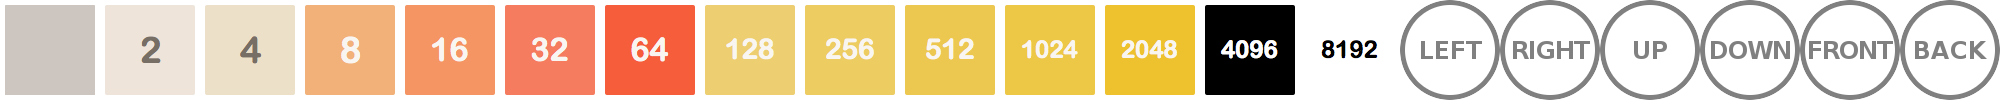
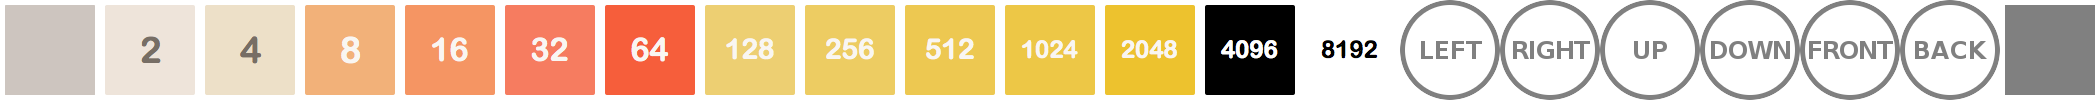
2048: adding levels and blocking cubes

diff --git a/assets/app/2048_3d/main.js b/assets/app/2048_3d/main.js
@@ -3,31 +3,40 @@
 /* global variables */
 var canvas, gl, program, browser, tex_2048;
 var shaders = ["shader.vert", "shader.frag"];
-var stopRender = false, E_down = false;
+var stopRender = false, D_down = false, E_down = false;
 
 var SHAPES = {
     // shape name: {id, details}
-    "0":     { id: 5 },
-    "2":     { id: 5 },
-    "4":     { id: 5 },
-    "8":     { id: 5 },
-    "16":    { id: 5 },
-    "32":    { id: 5 },
-    "64":    { id: 5 },
-    "128":   { id: 5 },
-    "256":   { id: 5 },
-    "512":   { id: 5 },
-    "1024":  { id: 5 },
-    "2048":  { id: 5 },
-    "4096":  { id: 5 },
-    "8192":  { id: 5 },
-    "Guide": { id: 5 }
+    "0":        { id: 5 },
+    "2":        { id: 5 },
+    "4":        { id: 5 },
+    "8":        { id: 5 },
+    "16":       { id: 5 },
+    "32":       { id: 5 },
+    "64":       { id: 5 },
+    "128":      { id: 5 },
+    "256":      { id: 5 },
+    "512":      { id: 5 },
+    "1024":     { id: 5 },
+    "2048":     { id: 5 },
+    "4096":     { id: 5 },
+    "8192":     { id: 5 },
+    "1048576":  { id: 5 },
+    "Guide":    { id: 5 }
 };
 
-var GUIDE, GAME, BOARD = [], highScore;
+var LEVELS = [
+    { name: "Youngling", best: 0 },
+    { name: "Padawan",   best: 0 },
+    { name: "Knight",    best: 0 },
+    { name: "Master",    best: 0 },
+    { name: "Yoda",      best: 0 },
+];
+
+var GUIDE, GAME, BOARD = [], currentLevel = 1;
 
 /* UI elements */
-var info_panel, big_info, small_info, score_info, best_info;
+var info_panel, big_info, small_info, score_info, move_info, best_info;
 
 /* mouse controls */
 var lastPosition = [];
@@ -92,12 +101,12 @@ function initWebGL(shaderSources) {
             tCoord = getTiledTexCoords(Math.log(parseInt(key)) / Math.log(2));
         } else {
             tCoord = [
-                        [18 / 20, 0], [19 / 20, 0], [19 / 20, 1], [18 / 20, 0], [19 / 20, 1], [18 / 20, 1], // front
-                        [20 / 20, 0], [19 / 20, 0], [19 / 20, 1], [20 / 20, 0], [19 / 20, 1], [20 / 20, 1], // back
-                        [15 / 20, 0], [14 / 20, 0], [14 / 20, 1], [15 / 20, 0], [14 / 20, 1], [15 / 20, 1], // left
-                        [15 / 20, 0], [16 / 20, 0], [16 / 20, 1], [15 / 20, 0], [16 / 20, 1], [15 / 20, 1], // right
-                        [17 / 20, 0], [17 / 20, 1], [16 / 20, 1], [17 / 20, 0], [16 / 20, 1], [16 / 20, 0], // top
-                        [18 / 20, 1], [18 / 20, 0], [17 / 20, 0], [18 / 20, 1], [17 / 20, 0], [17 / 20, 1], // bottom
+                        [18 / 21, 0], [19 / 21, 0], [19 / 21, 1], [18 / 21, 0], [19 / 21, 1], [18 / 21, 1], // front
+                        [20 / 21, 0], [20 / 21, 1], [19 / 21, 1], [20 / 21, 0], [19 / 21, 1], [19 / 21, 0], // back
+                        [14 / 21, 0], [15 / 21, 0], [15 / 21, 1], [14 / 21, 0], [15 / 21, 1], [14 / 21, 1], // left
+                        [16 / 21, 0], [16 / 21, 1], [15 / 21, 1], [16 / 21, 0], [15 / 21, 1], [15 / 21, 0], // right
+                        [16 / 21, 1], [16 / 21, 0], [17 / 21, 0], [16 / 21, 1], [17 / 21, 0], [17 / 21, 1], // top
+                        [17 / 21, 0], [18 / 21, 0], [18 / 21, 1], [17 / 21, 0], [18 / 21, 1], [17 / 21, 1], // bottom
                      ];
         }
         //console.log(tCoord);
@@ -166,9 +175,11 @@ function render() {
             loadObjectUniforms(object);
             object.draw(gl, false);
         });
-        loadVertexAttribs(GUIDE._gl);
-        loadObjectUniforms(GUIDE);
-        GUIDE.draw(gl, false);
+        if (D_down) {
+            loadVertexAttribs(GUIDE._gl);
+            loadObjectUniforms(GUIDE);
+            GUIDE.draw(gl, false);
+        }
     }
     window.requestAnimFrame(render);
 }
@@ -262,6 +273,9 @@ function handleKeyDown(event){
         case 71: // G key for inwards screen
             GAME.move("IN");
             break;
+        case 68: // E key to explode board
+            D_down = true;
+            break;
         case 69: // E key to explode board
             if (!E_down) {
                 explodeBoard();
@@ -302,10 +316,13 @@ function handleKeyDown(event){
 /* capture key press */
 function handleKeyUp(event){
     switch (event.keyCode) {
+        case 68: // D key to show direction
+            D_down = false;
+        break;
         case 69: // E key to explode board
             E_down = false;
             GAME.updateGUI();
-            break;
+        break;
     }
 }
 
@@ -321,15 +338,15 @@ function changeCameraAngle(dx, dy) {
 function getTiledTexCoords(id) {
     id = id < 0 ? 0 : id;
     var ret = [];
-    var a = id / 20.0,
-        b = (id + 1) / 20.0;
+    var a = id / 21.0,
+        b = (id + 1) / 21.0;
     
     ret.push([a, 0], [b, 0], [b, 1], [a, 0], [b, 1], [a, 1]); // front
-    ret.push([b, 0], [a, 0], [a, 1], [b, 0], [a, 1], [b, 1]); // back
-    ret.push([b, 0], [a, 0], [a, 1], [b, 0], [a, 1], [b, 1]); // left
-    ret.push([a, 0], [b, 0], [b, 1], [a, 0], [b, 1], [a, 1]); // right
-    ret.push([b, 0], [b, 1], [a, 1], [b, 0], [a, 1], [a, 0]); // top
-    ret.push([b, 1], [b, 0], [a, 0], [b, 1], [a, 0], [a, 1]); // bottom
+    ret.push([b, 0], [b, 1], [a, 1], [b, 0], [a, 1], [a, 0]); // back
+    ret.push([a, 0], [b, 0], [b, 1], [a, 0], [b, 1], [a, 1]); // left
+    ret.push([b, 0], [b, 1], [a, 1], [b, 0], [a, 1], [a, 0]); // right
+    ret.push([a, 1], [a, 0], [b, 0], [a, 1], [b, 0], [b, 1]); // top
+    ret.push([a, 0], [b, 0], [b, 1], [a, 0], [b, 1], [a, 1]); // bottom
     
     return ret;
 }
@@ -348,7 +365,7 @@ function showInfoPanel(msg, small_msg, t) {
     info_panel.style.display = "";
     big_info.innerHTML = msg;
     small_info.innerHTML = small_msg;
-    if (t) {
+    if (t > 0) {
         fadeInfoPanel(t);
     }
 }
@@ -359,13 +376,27 @@ function fadeInfoPanel(t) {
     }, t);
 }
 
+/* set level and start a new game */
+function setLevel(value) {
+    currentLevel = parseInt(value);
+    GAME.reset();
+}
+
+/* populate level selector */
+$(function(){
+    var $select = $("#levelSelector");
+    for (var i = 1; i <= 5; i++){
+        $select.append($('<option></option>').val(i).html(LEVELS[i - 1].name));
+    }
+});
+
 /*****************************************************
  * Game logic
  * **************************************************/
 
 var tile_values = [2, 2, 2, 2, 2, 2, 2, 2, 2, 4];
 //var tile_values = [512, 512, 512, 512, 512, 512, 512];
-var flag_2048 = false, flag_4096 = false, flag_8192 = false;
+var flag_2048 = false, flag_4096 = false;
 // Offsets for computing tile indices in each direction.
 // DO NOT MODIFY this dictionary.
 var OFFSETS = {
@@ -399,27 +430,30 @@ function merge(line) {
         } else if (tmp[i] == tmp[i + 1]) {
             ret[idx] = 2 * tmp[i];
             i += 2;
-            GAME.score += ret[idx];
+            if (ret[idx] <= 8192) {
+                GAME.score += ret[idx];
+            }
             if (ret[idx] == 1024) {
-                showInfoPanel("Cool", "", 500);
+                showInfoPanel("Cool", "You've got 1024", 500);
             } else if (ret[idx] == 2048) {
                 if (!flag_2048) {
                     showInfoPanel("You Win", "Continue playing or start a new game by pressing 'N'.", 1000);
                     flag_2048 = true;
                 } else {
-                    showInfoPanel("Awesome", "", 500);
+                    showInfoPanel("Awesome", "Another 2048", 500);
                 }
             } else if (ret[idx] == 4096) {
                 if (!flag_4096) {
                     showInfoPanel("(⊙_◎)", "Continue playing or start a new game by pressing 'N'.", 1000);
                     flag_4096 = true;
                 } else {
-                    showInfoPanel("Excellent", "", 500);
+                    showInfoPanel("Excellent", "Another 4096", 500);
                 }
             } else if (ret[idx] == 8192) {
                 showInfoPanel("(╯°□°）╯︵ ┻━┻ ", "Game Over because you're genius!<br/>Press 'N' to start a new game.", 0);
-                flag_8192 = true;
-                this.over = true;
+                GAME.over = true;
+            } else if (ret[idx] > 1048576) {
+                ret[idx] = 1048576;
             }
         } else {
             ret[idx] = tmp[i];
@@ -479,13 +513,14 @@ function TwentyFortyEight() {
             for (var i = 0; i < 4; i++) {
                 for (var j = 0; j < 4; j++) {
                     var val = this.grid[k][i][j];
+                    //console.log(val.toString());
                     BOARD.push(new Geometry(SHAPES[val.toString()], { scale: [0.2, 0.2, 0.2], translate: [-0.6 + i * 0.4, -0.6 + j * 0.4, -0.6 + k * 0.4] }));
                 }
             }
         }
-        highScore = highScore > this.score ? highScore : this.score;
+        LEVELS[currentLevel - 1].best = LEVELS[currentLevel - 1].best > this.score ? LEVELS[currentLevel - 1].best : this.score;
         score_info.innerHTML = this.score;
-        best_info.innerHTML  = highScore;
+        best_info.innerHTML  = LEVELS[currentLevel - 1].best;
     };
 
     this.new_tile = function() {
@@ -499,6 +534,7 @@ function TwentyFortyEight() {
             z = Math.floor(Math.random() * 4);
         }
         this.grid[z][x][y] = tile_values[Math.floor(Math.random() * tile_values.length)];
+
         // check for feasible moves
         var feasible = false;
         for (var i = 0; i < 4; i++) {
@@ -525,8 +561,6 @@ function TwentyFortyEight() {
             this.lost = true;
             this.over = true;
         }
-        
-        this.updateGUI();
     };
 
     this.reset = function() {
@@ -557,11 +591,14 @@ function TwentyFortyEight() {
                         [0, 0, 0, 0]
                     ]
                     ];
-        this.lost = false;
-        this.over = false;
+        this.level = currentLevel;
+        this.lost  = false;
+        this.over  = false;
         this.score = 0;
+        this.numMoves = 0;
         this.new_tile();
         this.new_tile();
+        this.updateGUI();
     };
 
     this.move = function(direction) {
@@ -609,6 +646,22 @@ function TwentyFortyEight() {
         if (moved) {
             this.new_tile();
         }
+        
+        this.numMoves++;
+        // add blocking tiles every 5*level moves
+        if (this.numMoves && this.numMoves % ((6 - this.level) * 5) == 0) {
+            var x = Math.floor(Math.random() * 4);
+            var y = Math.floor(Math.random() * 4);
+            var z = Math.floor(Math.random() * 4);
+            
+            while(this.grid[z][x][y]) {
+                x = Math.floor(Math.random() * 4);
+                y = Math.floor(Math.random() * 4);
+                z = Math.floor(Math.random() * 4);
+            }
+            this.grid[z][x][y] = 1048576;
+        }
+        this.updateGUI();
     };
 
     this.reset();

diff --git a/assets/js/data_generator.js b/assets/js/data_generator.js
@@ -180,23 +180,23 @@ function getCubeData() {
     for (var i = 0; i < 6; i++ ) { data.n.push([0.0, 0.0, 1.0]); }
     data.t.push([0, 0], [1, 0], [1, 1], [0, 0], [1, 1], [0, 1]);
     // back
-    data.v.push(cubeVert[4], cubeVert[5], cubeVert[6], cubeVert[4], cubeVert[6], cubeVert[7]);
+    data.v.push(cubeVert[4], cubeVert[7], cubeVert[6], cubeVert[4], cubeVert[6], cubeVert[5]);
     for (var i = 0; i < 6; i++ ) { data.n.push([0.0, 0.0, -1.0]); }
     data.t.push([0, 0], [1, 0], [1, 1], [0, 0], [1, 1], [0, 1]);
     // left
-    data.v.push(cubeVert[0], cubeVert[4], cubeVert[7], cubeVert[0], cubeVert[7], cubeVert[3]);
+    data.v.push(cubeVert[4], cubeVert[0], cubeVert[3], cubeVert[4], cubeVert[3], cubeVert[7]);
     for (var i = 0; i < 6; i++ ) { data.n.push([-1.0, 0.0, 0.0]); }
     data.t.push([0, 0], [1, 0], [1, 1], [0, 0], [1, 1], [0, 1]);
     // right
-    data.v.push(cubeVert[1], cubeVert[5], cubeVert[6], cubeVert[1], cubeVert[6], cubeVert[2]);
+    data.v.push(cubeVert[5], cubeVert[6], cubeVert[2], cubeVert[5], cubeVert[2], cubeVert[1]);
     for (var i = 0; i < 6; i++ ) { data.n.push([1.0, 0.0, 0.0]); }
     data.t.push([0, 0], [1, 0], [1, 1], [0, 0], [1, 1], [0, 1]);
     // top
-    data.v.push(cubeVert[2], cubeVert[6], cubeVert[7], cubeVert[2], cubeVert[7], cubeVert[3]);
+    data.v.push(cubeVert[7], cubeVert[3], cubeVert[2], cubeVert[7], cubeVert[2], cubeVert[6]);
     for (var i = 0; i < 6; i++ ) { data.n.push([0.0, 1.0, 0.0]); }
     data.t.push([0, 0], [1, 0], [1, 1], [0, 0], [1, 1], [0, 1]);
     // bottom
-    data.v.push(cubeVert[1], cubeVert[5], cubeVert[4], cubeVert[1], cubeVert[4], cubeVert[0]);
+    data.v.push(cubeVert[4], cubeVert[5], cubeVert[1], cubeVert[4], cubeVert[1], cubeVert[0]);
     for (var i = 0; i < 6; i++ ) { data.n.push([0.0, -1.0, 0.0]); }
     data.t.push([0, 0], [1, 0], [1, 1], [0, 0], [1, 1], [0, 1]);
     return data;

diff --git a/_posts/2015-09-15-2048_3d.md b/_posts/2015-09-15-2048_3d.md
@@ -4,17 +4,20 @@ subtitle: "2048 3D"
 date:     2015-09-15 10:51
 ---
 
-<div id="helpPanel" class="col-md-5 col-xs-11 control-panel help-panel small-font-for-xs" style="z-index: 2; background-color: rgba(238, 228, 218, 0.95); margin-top: -35px;">
+<div id="helpPanel" class="col-md-5 col-xs-11 control-panel help-panel small-font-for-xs" style="height: 350px; padding: 0px 5px; z-index: 2; background-color: rgba(238, 228, 218, 0.95); margin-top: -65px;">
     <div class="row">
         <div class="text-center"><h4><b>How To Play</b></h4></div>
-        <div class="col-xs-10 col-xs-offset-1 small-font-for-xs text-center">
-            <i class="fa fa-cube"></i> Use arrow keys to move cubes. <i class="fa fa-cube"></i><br/>
-            <i class="fa fa-cube"></i> Use <b>G</b> and <b>B</b> keys to push cubes back/front. <i class="fa fa-cube"></i><br/>
-            <i class="fa fa-cube"></i> Pres '<b>E</b>' to explode the board. <i class="fa fa-cube"></i><br/>
-            <i class="fa fa-cube"></i> Rotate the board using mouse. <i class="fa fa-cube"></i>
+        <div class="col-md-12 small-font-for-xs">
+            <ul class="fa-ul">
+                <li><i class="fa-li fa fa-cube"></i> Use arrow keys to move cubes left/right/up/down and '<b>G</b>' and '<b>B</b>' keys to push cubes back/front.</li>
+                <li><i class="fa-li fa fa-cube"></i> Semi-transparent black blocking cube appears after certain moves depending upon level.</li>
+                <li><i class="fa-li fa fa-cube"></i> Two adjacent blocking cubes can be merged together.</li>
+                <li><i class="fa-li fa fa-cube"></i> Pres '<b>D</b>' to show direction hints.</li>
+                <li><i class="fa-li fa fa-cube"></i> Use mouse to rotate the board.</li>
+            </ul>
         </div>
     </div>
-    <div class="row" style="padding-top: 10px;">
+    <div class="row">
         <div class="row text-center"><h4><b>Keyboard Shortcuts</b></h4></div>
         <div class="col-xs-6">
             <div class="row">
@@ -31,7 +34,7 @@ date:     2015-09-15 10:51
         <div class="col-xs-6">
             <div class="row">
                 <div class="col-xs-10 col-xs-offset-1">
-                    <b>E</b>  - Explode board
+                    <b>E</b> - Explode board
                 </div>
             </div>
             <div class="row">
@@ -59,12 +62,36 @@ date:     2015-09-15 10:51
         <canvas id="gl-canvas" width="512" height="512">
             Oops ... your browser doesn't support the HTML5 canvas element
         </canvas>
-        <div class="col-md-12 canvas-info score-info" style="margin-top: -35px;">
-            <div class="col-md-6 text-left">
-                Score : <span id="scoreInfo">0</span>
+    </div>
+</div>
+
+
+<div class="row">
+    <div class="col-md-6 col-md-offset-3 col-xs-12 text-center">
+        <div class="row" style="padding: 0px;">
+            <div class="col-md--12 score-info">
+                <div class="col-md-4">
+                    Level
+                </div>
+                <div class="col-md-4">
+                    Score
+                </div>
+                <div class="col-md-4">
+                    Best
+                </div>
             </div>
-            <div class="col-md-6 text-right">
-                Best : <span id="bestInfo">0</span>
+        </div>
+        <div class="row" style="padding: 0px;">
+            <div class="col-md--12 score-info">
+                <div class="col-md-4">
+                    <select id="levelSelector" onchange="setLevel(this.value)" style="width: 90%"></select>
+                </div>
+                <div class="col-md-4">
+                    <span id="scoreInfo">0</span>
+                </div>
+                <div class="col-md-4">
+                    <span id="bestInfo">0</span>
+                </div>
             </div>
         </div>
     </div>
